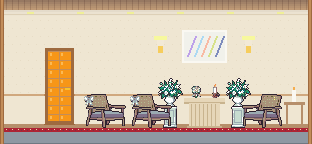
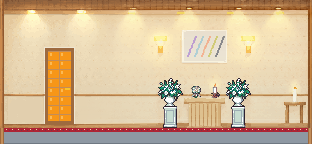
The reading nook, the lighting booth and the chapel redecorated (the user's choices: B, A, and the chapel B with its chairs taken out first; the lifeboat left as it is). The nook an old library, dark green and walnut: its way out, the armchair she reads in and the cat's picture as drawn, its other f

diff --git a/tools/redecorate_rooms.py b/tools/redecorate_rooms.py
@@ -149,9 +149,10 @@ def clear_glass(im, room):
 
 # --- The guest cabins (take 3: their own colours, the finish only), the pantry (B) and the blanket fort (3), 2026-11-24 ---
 
-def join(L, R, cut, over0):
+def join(L, R, cut, over0, blend=0):
     """Two redrawn parts of one room: R (laid from room x over0) brought to L's colours row by row where they overlap,
-    then L up to `cut` and R from it."""
+    then L up to `cut` and R from it; or, with `blend`, faded from one to the other over that many px round the cut (a
+    wall the two parts lit differently: the chapel's)."""
     L = np.array(L.convert("RGBA")); Rf = np.array(R.convert("RGB")).astype(float)
     Lf = L[:, :, :3].astype(float)
     n = L.shape[1] - over0
@@ -163,6 +164,10 @@ def join(L, R, cut, over0):
     out[:, :, 3] = 255
     out[:, :cut, :3] = Lf[:, :cut]
     out[:, cut:, :3] = Rf[:, cut - over0:]
+    if blend:
+        a0 = cut - blend // 2
+        t = ((np.arange(blend) + 0.5) / blend)[None, :, None]
+        out[:, a0:a0 + blend, :3] = np.clip(Lf[:, a0:a0 + blend] * (1 - t) + Rf[:, a0 - over0:a0 - over0 + blend] * t, 0, 255)
     return Image.fromarray(out)
 
 
@@ -230,6 +235,21 @@ CABINS = {
     "dressing": dict(parts=[("dressing-A", 0)], cuts=[], door=None, doorbox=None,
                      pieces=[("door-crew", 59, 0), ("velvet-stool", 164, 0), ("dress-rack", 206, 0)]),
     "coldroom": dict(parts=[("coldroom-A", 0)], cuts=[], door=None, doorbox=None, pieces=[("door-crew", 59, 0)]),
+    # The last of them (the user, 2026-11-24: the nook B, the lighting booth A; the lifeboat left as it is). The nook's way
+    # out (the gap the bookcase left) by its box, its chair (she reads in it: her clip was cut over it) and the cat's
+    # picture as drawn; its lamp, table, candle, bookcase and books the redraw's (ours were washed toward the old red wall).
+    "nook": dict(parts=[("nook-B", 0)], cuts=[], door=None, doorbox=(41, 66, 79, 127),
+                 pieces=[("reading-chair", 124, 0)], boxes=[(12, 38, 34, 60)]),
+    # The booth and the catwalk, cut inside the steel post of the frame between them (x 228); its chair the redraw's.
+    "lighting": dict(parts=[("lighting-p1-A", 0), ("lighting-p2-A", 224)], cuts=[228], door=None, doorbox=None,
+                     pieces=[("door-crew", 59, 0)]),
+    # The Chapel (B, its chairs taken out first: the user, 2026-11-24, "Remove the chairs and regenerate"), called by
+    # tools/draw_chapel.py: its amber glass doors by their box, the altar's flowers and candle and the flowers' stands as
+    # drawn; its two parts faded one into the other over the plain wall between the doors and the stands (cut hard, the
+    # parts' light differed).
+    "chapel": dict(parts=[("chapel-p1-B", 0), ("chapel-p2-B", 56)], cuts=[116], blend=80, door=None,
+                   pieces=[("flower-pedestal", 170, 0), ("flower-pedestal", 238, 0), ("bouquet", 196, 30),
+                           ("pillar-candle", 216, 30)]),
 }
 
 
@@ -264,7 +284,7 @@ def cabin(name, base):
     (first, _), *rest = spec["parts"]
     im = Image.open(SRC / f"{first}.png")
     for (part, x), cut in zip(rest, spec["cuts"]):
-        im = join(im, Image.open(SRC / f"{part}.png"), cut, x)
+        im = join(im, Image.open(SRC / f"{part}.png"), cut, x, spec.get("blend", 0))
     im = im.convert("RGBA")
     assert im.size == base.size, (name, im.size, base.size)
     door = spec.get("doorbox", CABIN_DOOR)
@@ -292,7 +312,7 @@ def fort():
 
 def main():
     for name, lay in [("laundry", laundry), ("store", store), ("galley", galley), ("maid6", maid6), ("pantry", pantry)] +             [(n, (lambda n: lambda base: cabin(n, base))(n)) for n in CABINS]:
-        p = GAME / "rooms" / f"{name}.png"
+        p = GAME / "chapel-room.png" if name == "chapel" else GAME / "rooms" / f"{name}.png"
         lay(Image.open(p).convert("RGBA")).save(p)
         print("wrote", p.relative_to(ROOT))
     fort().save(GAME / "rooms" / "adjoin-fort.png")

diff --git a/tools/draw_chapel.py b/tools/draw_chapel.py
@@ -136,15 +136,7 @@ def interior():
     stand = piece("flower-pedestal")
     for x in (cx - 34, cx + 34):
         im.alpha_composite(stand, (x - stand.width // 2, FLOOR - stand.height))
-    # The cane-back chairs in rows facing the altar: two on the door's side, one on the far side.
-    chair = piece("cane-chair")                          # drawn facing right (east)
-    left = chair.transpose(Image.FLIP_LEFT_RIGHT)
-    bow = piece("pew-bow")
-    for x in (106, 152):
-        im.alpha_composite(chair, (x - chair.width // 2, FLOOR - chair.height))
-        im.alpha_composite(bow, (x - chair.width // 2 - 2, FLOOR - chair.height + 2))
-    for x in (262,):
-        im.alpha_composite(left, (x - chair.width // 2, FLOOR - chair.height))
+    # (No chairs since 2026-11-24, the user: "Remove the chairs"; the ceremony's guests stood in them.)
 
     # The room opens where the deck was, the deck around it dimmed by the game: the ceiling's shadow,
     # and its two end walls, cream.
@@ -194,6 +186,10 @@ if __name__ == "__main__":
     room, door = interior(), open_door()
     room.save(SOURCE / "interior.png")
     door.save(SOURCE / "door-open.png")
+    # Redecorated (the user's choice of 2026-11-24, B): tools/redecorate_rooms.py lays the generated look over the drawing,
+    # its doors, flowers and candle as drawn here.
+    from redecorate_rooms import cabin
+    room = cabin("chapel", room)
     room.save(GAME / "chapel-room.png")
     door.save(GAME / "chapel-door-open.png")
     if "--preview" in sys.argv:

diff --git a/tools/draw_rooms.py b/tools/draw_rooms.py
@@ -890,7 +890,7 @@ def nook(width):
     R.im.alpha_composite(cat, (23 - cat.width // 2, 38))
     box(110, 18, 118, 24, YELLOW, ORANGE)
     r(112, 24, 116, 26, TUBE)
-    return R.save("nook")
+    return redecorated("nook", R)
 
 
 def lighting(width):
@@ -960,7 +960,7 @@ def lighting(width):
     r(430, 9, 432, 30, SLATE)
     r(416, 13, 416, 46, WOOD)
     d.ellipse([413, 46, 419, 54], outline=WOOD)
-    return R.save("lighting")
+    return redecorated("lighting", R)
 
 
 # --- Region 4's rooms (deck 9's cabins) --------------------------------------------------------------

diff --git a/CLAUDE.md b/CLAUDE.md
@@ -56,7 +56,7 @@ truth**: read the relevant section before any design or content work, and record
 | `tools/estimate_skeleton.py` | PixelLab's skeleton estimate for PNGs (0.1 generations each): poses to give a new state of her character the exact motion of an existing clip |
 | `tools/build_ship_art.py` options | Per piece (and `-lt`, a light wash for the theatre's pieces, `LIGHT`; `keep` (from, to): a piece's own canvas columns kept, for pieces that must stand at one spot, the theatre's seat and its ten sitters): `height` shrinks a PixelLab piece to her scale, `join`/`from_x` mend pieces drawn across two frames, `flat` squares a base, `legs` runs short legs down to the floor, `caption` blanks a name the sheet wrote into the frame |
 | `tools/draw_chapel.py` | The Chapel (deck 12), drawn by hand from her photo: its inside and its open door (run after `build_ship_art.py`: its chairs and flowers come from the atlas) |
-| `tools/redecorate_rooms.py`, `assets/source/ship/redeco/` | **The linen room and the laundry redecorated** (the user, 2026-11-24: linen A, laundry C; then the dry store A, the galley A and the maid's cabin C, called by `draw_rooms.py`'s `store`, `galley`, `maid6`; then the nine guest cabins (take 3, `CABINS`: each one's parts, cuts, balcony door, pieces), the pantry B and the blanket fort, through `draw_rooms.py`'s `redecorated()` and `fort()`; then the stage manager's cabin C, the dressing room A and the cold room A, in `CABINS` too, their doors pasted back by their own pixels (`doorbox=None`, the door a piece; `rim` where the redraw drew it bigger)): PixelLab's in-place redraws (every shape kept) laid over what `tools/draw_linen.py` and `tools/draw_rooms.py`'s `laundry` draw (both call it), the doors, the linen hatch, the laundry's outlet, cart and floor pasted back pixel for pixel; the laundry in two halves, matched row by row, the join inpainted. A change to either room's drawing that moves a protected piece needs its box here too. **A room's window shows the live outside** when its panes are listed (`windows` on the room in `tools/population.py`): `clear_glass` clears them, the ship scene's `roomView` draws the sea and sky behind (the maid's cabin; each guest cabin as it is redecorated, the user, 2026-11-24) |
+| `tools/redecorate_rooms.py`, `assets/source/ship/redeco/` | **The linen room and the laundry redecorated** (the user, 2026-11-24: linen A, laundry C; then the dry store A, the galley A and the maid's cabin C, called by `draw_rooms.py`'s `store`, `galley`, `maid6`; then the nine guest cabins (take 3, `CABINS`: each one's parts, cuts, balcony door, pieces), the pantry B and the blanket fort, through `draw_rooms.py`'s `redecorated()` and `fort()`; then the stage manager's cabin C, the dressing room A and the cold room A, in `CABINS` too, their doors pasted back by their own pixels (`doorbox=None`, the door a piece; `rim` where the redraw drew it bigger); then the nook B, the lighting booth A and the chapel B (its chairs taken out; called by `tools/draw_chapel.py`; its parts faded together, `blend`), the lifeboat left as it is): PixelLab's in-place redraws (every shape kept) laid over what `tools/draw_linen.py` and `tools/draw_rooms.py`'s `laundry` draw (both call it), the doors, the linen hatch, the laundry's outlet, cart and floor pasted back pixel for pixel; the laundry in two halves, matched row by row, the join inpainted. A change to either room's drawing that moves a protected piece needs its box here too. **A room's window shows the live outside** when its panes are listed (`windows` on the room in `tools/population.py`): `clear_glass` clears them, the ship scene's `roomView` draws the sea and sky behind (the maid's cabin; each guest cabin as it is redecorated, the user, 2026-11-24) |
 | `tools/draw_linen.py` | The linen room (deck 9; **mirrored 2026-11-23**, the user: its door at its aft end, the wide rack forward of it, the chute's hatch straight over the laundry's cart on deck 4, a narrow rack aft of the door; the shaft's mouth on its forward wall is the game's, `tools/build_shaft.py`), drawn by hand: its inside and its open crew door. What moves is the game's (the user, 2026-11-23): Bumbot asleep on the bottle shelf, the generated vent cover he knocks to the floor (`vent-cover`, `vent-cover-down`, `assets/source/things/vent/`; `bb4Wakes` and `intoTheVent` in `src/world/story.js`), and the generated laundry cart she pushes, solid in her way (`thing:laundry-cart`, `"rim"` in `PUSHABLES`; the drawn cart is retired); its door washed 20% (`ROOM_DOOR_WASH` in `src/highlight.js`); from the corridor a shut crew door, reader left, plate right (the open door seen through is retired, 2026-11-24) |
 | `docs/sequence-remake-plan.md` | **How a sequence is remade from start to finish** (the user, 2026-11-24: "save this plan. We will start using it right away"): the eleven steps drawn from the shaft's and the pool's remakes (a worktree and a log of its own, the scene recorded as it is, the structure settled with the user, the beats' rules, a preview stop, the art generated, the build, the self-check against the kinds of correction the user made (twelve since near-catch 1), a play stop, the fix rounds, the close), **PixelLab used freely at any step**, and the two prompts word for word. **Read it before remaking or refining a sequence as a whole** |
 | `tools/build_pass.py`, `assets/source/pass/`, `src/world/pass.js`, `docs/near-catch-1-remake-log.md` | **The Seven Seas' pass and near-catch 1** (deck 5 aft; the user's remake, 2026-11-24, the first by the plan above): a serving counter redrawn by PixelLab from a flat rough in the game's own picture of the place (the walnut one of two, in its own colours, not washed), the fruit bowl's fall off its forward end (PixMiniMax from the game's own bowl to an edited end picture, cut out by what differs from the place; frames of 96 x 64), the lunch's plate, into `assets/ship/pass/` with `pass.json`. In the game (`setupPass`, `updatePass`, `passBeat`, `passAfter`, mixed into the Story; `PASS` in `src/config.js`; the beat is `custom`): one clock on the scripted update; 110 px from him, on her feet (a jump across that line comes straight down there), she stops and cries, 0.4 s later dashes (the user: only here; D in play gives both at once); he looks back, turns, bolts along the counter behind her into the bowl; the game's three tangerines (`tan_5_bowl_1` to `_3`) fly and roll to their rests; she turns after him, shrugs, is free in 2.4 s with the plate "D to dash" (`hint.dash`). The lunch (`src_lunch`) stands on the counter from the start, hers after the beat, **one tray** (`lift`: off the counter while she carries it, a fresh one if she is left without it, none after `lunch`), pulsing by its own pictures |
@@ -799,6 +799,7 @@ Lessons learned (2026-11-24, the two rooms redecorated):
 - **A balcony door's glass shows the live outside** with what stands in front of the view kept as drawn (the rail, its
   balusters, the handle, a curtain blown in): cleared by geometry, not by colour (the curtain's blue is the sea's).
 - **A piece pasted back over a redraw that drew it differently shows the redraw's copy round it** (the stage manager's chair "too distorted"): a background piece nothing rests on keeps the redraw's own; a door is pasted by its own pixels, not a box (a box carries the old wall's colour), and a rim the redraw drew bigger is filled from the wall beyond it.
+- **Two redrawn parts that light a plain wall differently are faded into each other** over the wall (`blend`), not cut: cut hard, each chapel take showed a band. And a piece washed toward a room's old wall is pinkish on its new one: keep the redraw's own where nothing rests on it (the nook's furniture).
 - **What the outside draws in front of her is not drawn across a room she is in:** the balconies' fronts ran over the
   balcony cabins' insides (a room entered from its balcony is not `inDeck`, so a test on that missed them).
 

diff --git a/GAME_DESIGN.md b/GAME_DESIGN.md
@@ -2782,7 +2782,7 @@ and his pistol green; Bumbot over her head into the pool, in sight under the wat
 lever's grip, thrown across the tub; her reach up out of the water (a generated clip); the lever a generated valve,
 knee-high; the water down a grate, a funnel in its surface; the hatch on the tank's floor in view, its lid heaved up,
 its ladder, a ceiling panel on deck 10, no fade; her picture 5 px lower in the dry tank; the water to the wall's foot;
-the ladders to the floor; ~~the prints heading aft~~ (dropped in the merge, the user). 60 generations (`tools/build_pool.py`). **§5 part 3 is done. Part 4 (§6, each deck's own look) is done (2026-11-24):** each cabin deck hangs its own generated framed pictures between its doors (4 safety posters, 5 paintings of the ship, 6 old charts, 8 seascapes, 9 botanical prints, 10 old liners' posters; 38 generations); the plaques' coloured band dropped (the user: the doors stay as they are) and no tint. Then (the user's, 2026-11-24): her popup goes off the screen with her during a scare; a way roped or chained off has no words over her, she turns to us and shrugs (generated, 3 generations) and its sign lights up; the same shrug after a near-catch; `?at=pass5`. **Part 5 (§7) begun (2026-11-24):** a tangerine thrown at the funnel's gulls bounces down the stairway's treads and a gull takes it from a step; Bumbot at the tip backs off only from one coming at him; the old `deck4` flakes not reproduced, closed; V8 settled, V10 the party's notes above the world; the sound's leftovers (a held sound, the soft serve's motor held; sips, licks, Bumbot's nibbles; the intro's gulls, its rush into the ship, the badge's rustle, the menu's tick). **Part 5 is done. Part 6 (§7a, Bumbot made again) is built (2026-11-24, by the design session, the user's choices):** his look chosen of seven, 23 clips from it, his own colours, the scenes moved onto them (the near-catch's leap a real one, the rope, the vent's crawl, the pool's fishing, his sleep breathing); her skin's shade mended in her sheet with him in her arms; 114 generations. His coat in her arms: the new one, a tone darker (the user's choice in the game). Left of it: the clips not yet placed, the near-catch scenes in the user's QA. Then (the user's, 2026-11-24): the linen room and the laundry redecorated in place (linen A worn steel with varied linen, laundry C warm; `tools/redecorate_rooms.py`), the linen room's door a shut crew door, the room doors' ten plates washed 20%, `?at=laundry`; then the dry store (A, worn steel), the galley (A, a working stainless galley) and the maid's cabin (C, softly panelled) the same way (99 generations; PixelLab now Tier 3, 10,000 a cycle); the maid's cabin's window shows the live outside, as cabin 8206's (the guest cabins' as they are redecorated). Then the nine guest cabins (take 3, their own colours, the finish only; every balcony door's glass showing the live outside), the blanket fort and the pantry (B) the same way, and the balconies' railing no longer drawn across a room she is in (about 260 generations). Then the stage manager's cabin (C), the dressing room (A) and the cold room (A) the same way, the cold room's door moved out of the café's window, the deck 4 officers' plates off their doors' frames, and the ice cream mix's canister generated (96 generations). **Near-catch 1 remade (2026-11-24, the design session, by `docs/sequence-remake-plan.md`, the user's choices and three rounds of their play; `docs/near-catch-1-remake-log.md`):** the Seven Seas' pass a serving counter, her cry, a pause and her dash, his bolt along the counter into the fruit bowl, "D to dash"; 31 generations. **Next: part 9 (§7d, the tangerines' seats);** part 8 (§7c, what she uses: muted or not) at the end. Waiting with it: the books' covers and
+the ladders to the floor; ~~the prints heading aft~~ (dropped in the merge, the user). 60 generations (`tools/build_pool.py`). **§5 part 3 is done. Part 4 (§6, each deck's own look) is done (2026-11-24):** each cabin deck hangs its own generated framed pictures between its doors (4 safety posters, 5 paintings of the ship, 6 old charts, 8 seascapes, 9 botanical prints, 10 old liners' posters; 38 generations); the plaques' coloured band dropped (the user: the doors stay as they are) and no tint. Then (the user's, 2026-11-24): her popup goes off the screen with her during a scare; a way roped or chained off has no words over her, she turns to us and shrugs (generated, 3 generations) and its sign lights up; the same shrug after a near-catch; `?at=pass5`. **Part 5 (§7) begun (2026-11-24):** a tangerine thrown at the funnel's gulls bounces down the stairway's treads and a gull takes it from a step; Bumbot at the tip backs off only from one coming at him; the old `deck4` flakes not reproduced, closed; V8 settled, V10 the party's notes above the world; the sound's leftovers (a held sound, the soft serve's motor held; sips, licks, Bumbot's nibbles; the intro's gulls, its rush into the ship, the badge's rustle, the menu's tick). **Part 5 is done. Part 6 (§7a, Bumbot made again) is built (2026-11-24, by the design session, the user's choices):** his look chosen of seven, 23 clips from it, his own colours, the scenes moved onto them (the near-catch's leap a real one, the rope, the vent's crawl, the pool's fishing, his sleep breathing); her skin's shade mended in her sheet with him in her arms; 114 generations. His coat in her arms: the new one, a tone darker (the user's choice in the game). Left of it: the clips not yet placed, the near-catch scenes in the user's QA. Then (the user's, 2026-11-24): the linen room and the laundry redecorated in place (linen A worn steel with varied linen, laundry C warm; `tools/redecorate_rooms.py`), the linen room's door a shut crew door, the room doors' ten plates washed 20%, `?at=laundry`; then the dry store (A, worn steel), the galley (A, a working stainless galley) and the maid's cabin (C, softly panelled) the same way (99 generations; PixelLab now Tier 3, 10,000 a cycle); the maid's cabin's window shows the live outside, as cabin 8206's (the guest cabins' as they are redecorated). Then the nine guest cabins (take 3, their own colours, the finish only; every balcony door's glass showing the live outside), the blanket fort and the pantry (B) the same way, and the balconies' railing no longer drawn across a room she is in (about 260 generations). Then the stage manager's cabin (C), the dressing room (A) and the cold room (A) the same way, the cold room's door moved out of the café's window, the deck 4 officers' plates off their doors' frames, and the ice cream mix's canister generated (96 generations). Then the nook (B), the lighting booth (A) and the chapel (B, its chairs taken out first; its two parts faded into each other), the lifeboat left as it is (243 generations). **Near-catch 1 remade (2026-11-24, the design session, by `docs/sequence-remake-plan.md`, the user's choices and three rounds of their play; `docs/near-catch-1-remake-log.md`):** the Seven Seas' pass a serving counter, her cry, a pause and her dash, his bolt along the counter into the fruit bowl, "D to dash"; 31 generations. **Next: part 9 (§7d, the tangerines' seats);** part 8 (§7c, what she uses: muted or not) at the end. Waiting with it: the books' covers and
       the shelf seen close (§6.1.2, given 2026-11-18). **Then step 5** (the rest of the
       twenty; pictures made freely now, people drawn with their things: `CLAUDE.md`, "Art").
       Known: one `deck4` check (the breakfast round moving on after a delivery) failed once in

diff --git a/assets/source/ship/redeco/README.md b/assets/source/ship/redeco/README.md
@@ -126,3 +126,29 @@ stage manager's cabin C, the dressing room A, the cold room A.**
 | `coldroom-B.png`, `coldroom-C.png` | a worn freezer; clean modern white | `b162d59f…`, `1eaf526f…` | 18 |
 
 **These three: 81 generations** (and the canister, 15: `assets/source/things/tries/README.md`).
+
+# The nook, the lighting booth, the chapel (and the lifeboat's tries), 2026-11-24
+
+The user: "The remaining rooms". Three looks of each, the same wording (A its own colours, B and C others; seeds 5, 13,
+27); the chapel, the lighting booth and the lifeboat in two parts (256 px each, from x 0 and from x 56, 224, 152). **Chosen:
+the nook B, the lighting booth A; the lifeboat left as it is;** the chapel: "Remove the chairs and regenerate", then **B**.
+
+## Used
+
+| Picture | What | Job | Generations |
+|---|---|---|---|
+| `nook-B.png` | the nook, an old library: dark green, walnut, brass (seed 13) | `6bceacbd-b26f-45c7-8a0b-1da42577c797` | 9 |
+| `lighting-p1-A.png`, `lighting-p2-A.png` | the booth (x 0..256) and the catwalk (x 224..480), its own colours (seed 5) | `9fac4fcc-fbd2-4a1f-8e2f-996800493cab`, `6bee7105-c7e4-4576-a811-fe987680199d` | 18 |
+| `chapel-p1-B.png`, `chapel-p2-B.png` | the chapel without its chairs (x 0..256, 56..312), softly lit (seed 13) | `80ffed95-6dc0-4f5f-8530-3171982d2d8e`, `1beca215-c254-4e7b-810a-3f5d43da2173` | 18 |
+
+## Tries (`tries/`)
+
+| Picture | What | Job | Generations |
+|---|---|---|---|
+| `nook-A.png`, `nook-C.png` | its own red; honey oak and cream | `e99bbe35…`, `246623db…` | 18 |
+| `lighting-p1/p2-B.png`, `-C.png` | black backstage with tape; deep navy with coloured haze | `7aa97c7f…`, `d9d25638…`, `f540a6b2…`, `ed580fda…` | 36 |
+| `lifeboat-p1/p2-A/B/C.png` | its own orange; worn; new and glossy (their parts' portholes and benches did not agree) | `99a67ad1…`, `19118281…`, `a258fd22…`, `aa7af770…`, `c304c409…`, `ca3f9f39…` | 54 |
+| `chapel-chairs-p1/p2-A/B/C.png` | the chapel with its chairs, A B C | `86e76afe…`, `f7ad3b43…`, `3c5b3c1f…`, `ce7b0b24…`, `9946649a…`, `0e0da83c…` | 54 |
+| `chapel-p1/p2-A.png`, `-C.png` | without its chairs: its own colours; warmer, ivory damask | `88a15269…`, `fcb42e28…`, `c85954dc…`, `814c1521…` | 36 |
+
+**These: 243 generations.**

diff --git a/docs/progress-decisions.md b/docs/progress-decisions.md
@@ -4921,3 +4921,22 @@ room, the chapel, the lighting booth, the lifeboat), "1-3".
   its steel would go green), on the shelf, in her hands and poured; **one canister**, off the shelf while she carries it
   (`lift`, as the lunch's tray).
 - 96 generations (81 + 15). `boot`, `region2`, `region3`, `region6`, `keeps`, `highlight` pass; `check_overlaps` 0.
+
+## The nook, the lighting booth and the chapel redecorated; the chapel's chairs out (2026-11-24)
+
+The user: "The remaining rooms" (the nook, the chapel, the lighting booth, the lifeboat), three looks of each (the
+three wider ones in two parts): **the nook B** (an old library: dark green walls, walnut panelling, brass), **the
+lighting booth A** (its own dark grey-purple, panel seams, worn steel), **the lifeboat left as it is** (its tries kept),
+and the chapel: **"Remove the chairs and regenerate"**, then **B** (its own colours, a soft glow from the downlights and
+sconces).
+
+- **The chapel's cane chairs and their bows are gone** (nothing in the code used them; the ceremony's guests stood in
+  them, and now stand on the open carpet). Its two redrawn parts lit the wall differently, so they are faded one into
+  the other over 80 px of plain wall between the doors and the flowers' stands (`blend` in `CABINS`), not cut.
+  `tools/draw_chapel.py` calls the redecoration; its doors by their box, the flowers, their stands and the candle as
+  drawn.
+- **The nook:** its way out, the armchair she reads in (her clip was cut over it) and the cat's picture as drawn; its
+  lamp, table, candle, bookcase and books the redraw's (ours, washed toward the old red wall, were pinkish on the green).
+- **The lighting booth:** its door as drawn, its chair the redraw's; cut inside the steel post between the booth and
+  the catwalk.
+- 243 generations (189 + 54). `boot`, `region3`, `region9`, `keeps`, `highlight` pass; `check_overlaps` 0.
